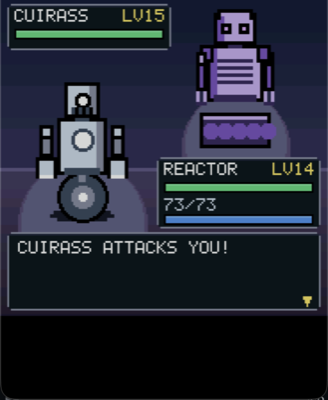
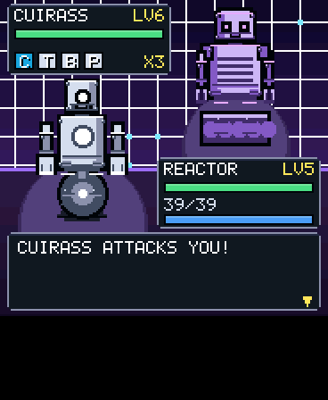
chatarra: the test handout comes out, and v2 is written up
The eight loose parts handed to the save on load were for trying the
workshop and the team without winning eight fights first. They do not
belong in a release: whoever installs it would start with a full bag.
The parts already handed out stay where they are - they are in the save
- and the two flags stay in the enum, because removing them would shift
every flag below and a game in progress would read "chest opened" where
it says "boss beaten".

And the documentation: six fresh screenshots, a v2 section in the app's
README, the file list with ch_zonas.c, ch_feria.c and ch_sound.c, the
status at 61 rooms, the root README's entry, and a CHANGELOG entry for
v0.4.5 - plus one for v0.4.1 to v0.4.4, which were released with notes
on GitHub and never written up here.

Changed region(s): [[0.0, 0.0, 1.0, 1.0], [0.0915, 0.63, 0.122, 0.66]]

diff --git a/apps/chatarra/main/ch_zonas.c b/apps/chatarra/main/ch_zonas.c
@@ -123,6 +123,9 @@ enum {
     F_VISITA_5, F_VISITA_6, F_VISITA_7, F_VISITA_8,
 
     /* TEMPORAL: la entrega de piezas de prueba, una sola vez. */
+    /* Las dos de la reparticion de prueba de la v2. La funcion se fue; las
+     * banderas se quedan, porque sacarlas correria todas las de abajo y un
+     * guardado en curso leeria "cofre abierto" donde dice "jefe vencido". */
     F_PRUEBA_PIEZAS, F_PRUEBA_PIEZAS2,
 
     /* La feria paga su pieza una sola vez. */
@@ -2927,35 +2930,6 @@ const ch_aire_t ch_aire[ZONAS] = {
     { 0xC06B2E, 2 },    /* 7 Villa Oxido  - dust in the air                  */
     { 0xB072F0, 2 },    /* 8 Prisma       - the summit                       */
 };
-
-/* TEMPORAL -- piezas de prueba.
- *
- * DOS de cada categoria, una sola vez, para poder probar el taller, armar el
- * segundo robot -que pide cuatro piezas de categorias distintas- y todavia
- * tener con que cambiar. Detras de una bandera porque si no es una maquina de
- * imprimir piezas, y aca porque el enum de banderas es privado de este
- * archivo. La segunda bandera es la reparticion ampliada: el guardado de
- * prueba ya tenia prendida la primera.
- *
- * Es para la partida de pruebas del usuario y esta para sacarse. */
-void ch_regalo_piezas(ch_save_t *s)
-{
-    static const uint8_t REGALO[8] = {
-        PIEZA_ID(P_CABEZA, 5),  PIEZA_ID(P_CABEZA, 11),
-        PIEZA_ID(P_TORSO, 3),   PIEZA_ID(P_TORSO, 9),
-        PIEZA_ID(P_BRAZOS, 7),  PIEZA_ID(P_BRAZOS, 13),
-        PIEZA_ID(P_PIERNAS, 3), PIEZA_ID(P_PIERNAS, 10),
-    };
-    int puestas = 0;
-
-    if (ch_flag(s, F_PRUEBA_PIEZAS2)) return;
-    ch_flag_set(s, F_PRUEBA_PIEZAS);
-    ch_flag_set(s, F_PRUEBA_PIEZAS2);
-    for (int i = 0; i < MOCHILA && puestas < 8; i++) {
-        if (s->piezas[i] != 0xFF) continue;
-        s->piezas[i] = REGALO[puestas++];
-    }
-}
 
 /* LA PIEZA DE LA FERIA, una sola vez.
  *

diff --git a/apps/chatarra/main/chatarra.c b/apps/chatarra/main/chatarra.c
@@ -403,10 +403,6 @@ static bool cargar(ch_t *g)
     if (sv.ver == SAVE_VER && sv.largo == (uint16_t)sizeof(ch_save_t)) {
         g->s = sv.s;
 
-        /* TEMPORAL: tres piezas sueltas para probar el taller sin ganar
-         * tres combates antes. Vive en ch_zonas.c porque las banderas son
-         * privadas de ese archivo. Sale cuando el usuario diga. */
-        ch_regalo_piezas(&g->s);
     } else {
         /* NOTHING OLDER IS CONVERTED, AND THAT IS THE POINT.
          *
@@ -983,12 +979,7 @@ static void *chatarra_create(aos_app_t *self, lv_obj_t *root)
      *   CH_CABINA=<n> the booth, at that state (see the LK_ enum): the menu
      *                 needs a second watch, and its layout does not.
      *   CH_FERIA=1    la cinta de chatarra, directo
-     *
-     * AND ONE THING THAT IS NOT A SWITCH: CH_REGALO_PIEZAS below hands three
-     * loose parts to the save the first time it is loaded, so the workshop
-     * can be tried without winning three fights first. It is temporary and
-     * it is meant to come out; it is here and not behind getenv() because the
-     * board has no environment.
+
      */
     {
         const char *v;

diff --git a/apps/chatarra/main/chatarra.h b/apps/chatarra/main/chatarra.h
@@ -580,8 +580,6 @@ bool ch_eq_puede_armar(const ch_save_t *s);
  * or if it is the last robot standing. */
 bool ch_eq_desarmar(ch_save_t *s, int slot);
 
-/* TEMPORAL: entrega piezas de prueba una sola vez. Ver ch_zonas.c. */
-void ch_regalo_piezas(ch_save_t *s);
 /* La pieza que paga la feria, una sola vez. true si la dio ahora. */
 bool ch_feria_premio(ch_save_t *s, uint32_t *sem);
 

diff --git a/apps/chatarra/README.md b/apps/chatarra/README.md
@@ -8,6 +8,23 @@ one of them is written down anywhere.
 The game loop is: walk around, fight, **rip a part off whoever you beat**, fit it
 in the workshop and head out again with a different robot.
 
+<p align="center">
+  <img src="../../docs/img/app-chatarra-map.png" width="190" alt="Cogville: cobbled streets, flowerbeds, a bench, a bin, a cat by the lamp post">
+  <img src="../../docs/img/app-chatarra-battle.png" width="190" alt="Combat: the rival's four parts by elemental type, its set, and the stat stages">
+  <img src="../../docs/img/app-chatarra-workshop.png" width="190" alt="The workshop: the robot at scale 3 and the four categories down the right">
+</p>
+<p align="center">
+  <img src="../../docs/img/app-chatarra-team.png" width="190" alt="The team of three, with stats or moves behind a pair of buttons">
+  <img src="../../docs/img/app-chatarra-records.png" width="190" alt="The register: the parts seen, eight to a page">
+  <img src="../../docs/img/app-chatarra-fair.png" width="190" alt="The scrap belt at Bujia docks">
+</p>
+
+**v2 (2026-09-20)** redrew the world at **12 px a cell** instead of 8 — fewer,
+bigger cells, which costs the same and touches far better on a 1.8" screen — and
+with it came 61 rooms, towns split into sectors, a team of three, a phone booth
+per town, a fair, and the whole menu rebuilt out of tiles. Section 18 is the
+short version; `docs/internal/HANDOFF-CHATARRA-V2.md` is the long one.
+
 ---
 
 ## 1. What to know before touching anything
@@ -139,11 +156,14 @@ Both are written on the title screen, because neither can be guessed.
 | `chatarra.h` | the whole model: parts, robot, world, savegame, modes |
 | `ch_pixel.c/.h` | pixel-art engine with dirty rectangles (copied from `cjump`, with the palette extended to earth, grass, water, stone and wood) |
 | `ch_parts.c` | the 64 parts, the 44 attacks, the items, the colour schemes and the four functions that draw a robot |
-| `ch_world.c` | the tiles, the props, the nine rooms, the entities and the dialogue |
+| `ch_world.c` | the tiles, the props, the furniture, the animals and the entity sprites |
+| `ch_zonas.c` | the 61 rooms, their entities and every line of dialogue |
 | `ch_map.c` | the room engine: background, pathfinding by breadth-first search, movement, encounters |
 | `ch_battle.c` | the turn-based combat |
 | `ch_ui.c` | HUD, dialogue, menu, workshop, items, team screen, register, shop, title |
 | `ch_link.c` | the phone booth: the protocol and the screen for the other watch |
+| `ch_feria.c` | the scrap belt: the minigame at Bujia docks |
+| `ch_sound.c` | the four-voice synthesiser and the sixteen tunes |
 | `chatarra.c` | the only thing LVGL and the HAL see: canvas, blit, touch, button, saving |
 
 The game (everything but `chatarra.c`) **does not know that LVGL, the HAL or the
@@ -399,7 +419,7 @@ tables.
 **Done:** the whole game. The engine, the 64 parts, the 44 attacks with six types
 and an effectiveness table, turn-based combat with status effects, the workshop,
 the shop, the items, the stat sheet, saving, flag-driven quests, and **the eight
-zones across 51 rooms**, from Villa Tuerca to the Summit:
+zones across 61 rooms**, from Villa Tuerca to the Summit:
 
 | # | Zone | Road / Dungeon | Sub-boss | Type |
 | --- | --- | --- | --- | --- |
@@ -433,9 +453,13 @@ hand and there is nothing to lay it out. Two real cases:
 - The 105 lines of dialogue in each language are cut by hand to ≤27. A longer
   line breaks nothing, but it wraps by itself and looks bad.
 
+**Measured on the board** at every step since 2026-09-20: 29.5 fps on the map
+and 27-29 in combat, which is the ceiling the panel gives and not the game's.
+
 **Pending:**
-- **Measuring it on the board.** Everything here is tested in the simulator,
-  where LVGL costs twenty or thirty times less.
+- The seven zones after the first came out of templates, so they share a layout
+  per role. The character is in the tiles, the props and the text; giving each
+  zone a floor plan of its own is hand work, one room at a time.
 
 ---
 
@@ -1094,3 +1118,98 @@ Two or three is a wash; seven, five, three is a shadow. It is written at
 
 Measured on the board afterwards: **29.2 fps**, unchanged. All three are
 background work, and the background is free.
+
+---
+
+## 18. v2: twelve pixels a cell, and everything that followed (2026-09-20)
+
+The map was 21 x 22 cells of 8 px. v2 draws **15 x 14 cells of 12 px**, and the
+whole rework hangs off one measurement: **in a dirty-rectangle engine what
+costs is AREA pushed, not drawing**, so fewer and bigger cells cost the same as
+more and smaller ones. 29.2 fps before, 29.2 fps after. What it buys is that a
+door is 24 real pixels instead of 16, and a finger can hit it.
+
+### The world
+
+- **61 rooms** instead of 51. Every town is two or four sectors — Cogville is
+  four — because a road crossing, a workshop, three neighbours, the booth and
+  the checkpoint out do not fit in 210 cells without going back to the cramming
+  v2 exists to stop.
+- The seven zones after the first were rebuilt **from seven templates**, one per
+  role (approach, town, east sector, interior, two dungeon floors, boss), which
+  take the zone's TILE LETTERS and nothing else and read every text, flag, item
+  and level out of the tables that were already there. Every template mistake
+  then shows up 6 or 42 times at once, which turns the world check from a sieve
+  into a test bench: the first pass gave 47 problems and they were five causes.
+- **Edge tiles**, directional room transitions, **per-zone air** (a colour wash
+  over the finished background), flowing water and lava, prop shadows.
+- Towns got **seven new ground tiles** — a denser grass, a flowerbed, warm
+  sandstone paving, slabs, parquet — plus benches, bins, planters, and **a black
+  cat and a bird that walk**. The animals join the creatures' loop instead of
+  getting one of their own, so they are already a dirty rectangle in a list that
+  was being drawn anyway.
+- **Furniture is an entity, not a decoration**: eleven pieces, each with its own
+  text, and any of them can hide one thing once. A house with a table you cannot
+  look at is a house with a picture of a table in it.
+
+### The robots
+
+They are drawn by code on a 26 x 40 unit grid and scaled whole, so scaling them
+added no detail — the smallest unit was three pixels and a rivet did not fit.
+Two functions (`RH`, `REM`) take their coordinates in **half units**: at scale 1
+they round to zero and are not drawn, from scale 2 up they are real detail. The
+same code draws the small robot on the map and an effective 52 x 80 one in the
+sheet, the workshop and combat. On top of that, a detail pass per category —
+lit and shaded plate edges, rivets, a jaw seam, a waist, vent grilles, elbow and
+knuckles, knee, ankle and sole — all derived from measurements the part already
+computed, so it covers all 16 variants of each.
+
+### Playing it
+
+- **A team of three**: the starting robot plus two built from spare parts, and a
+  reserve to fall back on when one breaks.
+- **Parts of the same type work together**: two of the torso's element +10%
+  attack, three +20% and +10% defence, four +30/+20/+10. That is the difference
+  between a menu and a decision. It is computed and not stored, because
+  `ch_save_t` is accepted by SIZE and a new field throws away every game in
+  progress.
+- **Fast travel** from the map screen to any zone you have set foot in, always
+  to its town.
+- **A diary** of the eight errands, which walks the world rather than keeping a
+  table of its own, so it cannot fall out of step with them.
+- **The phone booth** in every town: fight or swap robots and parts with another
+  watch over the link.
+- **The scrap belt** at Bujia docks: a three-lane conveyor, grab the green parts
+  and let the rusty ones through, forty seconds for credits and — once — a part.
+- **Eight zone themes** on the four-voice synth. What separates them is the
+  pulse and the register, not the tune.
+
+### The interface
+
+Every list became tiles or tall rows: the menu is two pages of icons, the items
+and the shop are 42 px rows with a 24 x 24 icon and the description wrapped
+underneath, the register is eight parts a page at twice the old cell, the map is
+eight cards, the booth's menu is four tiles.
+
+Behind all of it, one rule learned three times on the board: **everything is
+measured from the top and the only thing with a variable height is whatever is
+left over.** The HUD owns everything from y=168, and the register's card, the
+team's buttons and the help's hint were each anchored to the bottom while what
+came above them grew freely. After the third one I swept for every constant
+between 155 and 223 used as a Y in a drawing call.
+
+### What the board caught and the simulator did not
+
+- `-Werror=format-truncation`: a `snprintf` into a `char[30]` compiles clean in
+  the simulator and is an **error** for the board.
+- Two right-aligned strings on one line fit in Spanish and were a mess in
+  English. Render with `lang=en` before installing.
+- Uploading a `.so` does **not** reload an app that is already open: the ELF
+  stays in memory. Restart, then open.
+
+### Measured
+
+- `CH_CHECK=1`: **0 problems** across the 61 rooms.
+- Board: **29.5 fps** on the map, with music, the idle, the animals and the
+  furniture — the same as the empty v1 map.
+- Catalogues: 554 strings in Spanish, English and German.

diff --git a/README.md b/README.md
@@ -142,7 +142,7 @@ app meant a reflash for that alone. See [docs/ICONS.md](docs/ICONS.md).
 
 | | | |
 |---|---|---|
-| <img src="docs/img/app-chatarra-map.png" width="200"><br>**Chatarra** — a turn-based robot RPG. Eight zones, 51 rooms, 64 parts drawn from descriptors rather than sprites. | <img src="docs/img/app-chatarra-battle.png" width="200"><br>Its combat: six elemental types, an effectiveness table, and the robot you fight with is one you built from parts torn off others. | <img src="docs/img/app-cjump.png" width="200"><br>**Claude Jump** — a vertical platformer with five zones, coins and sixteen costumes. |
+| <img src="docs/img/app-chatarra-map.png" width="200"><br>**Chatarra** — a turn-based robot RPG. Eight zones, 61 rooms, 64 parts drawn from descriptors rather than sprites. A team of three, a phone booth to fight another watch, and a fair at the docks. | <img src="docs/img/app-chatarra-battle.png" width="200"><br>Its combat: six elemental types, an effectiveness table, the rival's parts as far as your register knows them, and a robot you built from parts torn off others. | <img src="docs/img/app-cjump.png" width="200"><br>**Claude Jump** — a vertical platformer with five zones, coins and sixteen costumes. |
 | <img src="docs/img/app-topos.png" width="200"><br>**Topos** — whack-a-mole in three modes. A mole in a hard hat takes two taps, a golden one is worth a lot, and a bomb must not be touched. | <img src="docs/img/app-topos-frenzy.png" width="200"><br>Frenzy: several at once and combos up to ×5. The lawn never moves, so only what comes out of the holes is redrawn — about a tenth of the screen per frame. | <img src="docs/img/app-topos-survival.png" width="200"><br>Survival: three hearts and a level every eight moles. Every state has its own sprite — peeking, glancing about, taunting, dizzy, the hat flying off. |
 | <img src="docs/img/app-video-list.png" width="200"><br>**Video** — plays MJPEG AVIs from the card at the screen's size, with sound, at 15 fps. `tools/video_convert.sh` makes the pair of files from anything ffmpeg reads. | <img src="docs/img/app-video.png" width="200"><br>The sound is the clock: the frames follow the player's position and a late one is skipped, never the other way round. Reading and decoding run in a background task on the second core, the first app to have one, and the frame goes straight to the panel past LVGL's render. The numbers are in [docs/VIDEO.md](docs/VIDEO.md). | <img src="docs/img/app-pong.png" width="200"><br>**Pong** — across two watches: the ball leaves the top of one screen and comes down the other's. The host simulates at 30 Hz over the link's fast channel; 30 states a second each way, measured, with an iPhone connected. |
 | <img src="docs/img/app-radar.png" width="200"><br>**Radar** — where the other watch is. Pings ten times a second carry the signal strength each side sees, and a path-loss model calibrated at one metre puts the partner on the rings; underneath, FTM time of flight (IEEE 802.11mc): one watch answers from its softAP, the other measures 16 frames every 1.5 s and both show the distance in centimetres. | <img src="docs/img/app-walkie.png" width="200"><br>**Walkie** — push to talk between two watches. Hold the button and 29 ms frames of IMA ADPCM go out on the fast channel, 34 a second; let go and the speaker takes the codec back and plays what arrives through the HAL's streaming speaker. Half duplex because the ES8311 is one codec for both directions. | |

diff --git a/CHANGELOG.md b/CHANGELOG.md
@@ -3,6 +3,53 @@
 Newest first. Versions are git tags; what is above the latest tag is on
 `main` and not yet in a release.
 
+## v0.4.5 — 2026-09-20
+
+**Chatarra v2.** The robot RPG redrawn: the map goes from 21x22 cells of 8 px
+to **15x14 of 12 px**, and everything else follows from that one measurement —
+in a dirty-rectangle engine what costs is AREA pushed, not drawing, so fewer
+and bigger cells cost the same and a door is 24 real pixels instead of 16.
+29.2 fps before, 29.5 after.
+
+- **61 rooms** instead of 51: every town is two or four sectors, and the seven
+  zones after the first were rebuilt from seven templates, one per role, which
+  read every text, flag, item and level out of the tables that were already
+  there. The world check reports **0 problems** across all 61.
+- **A team of three** robots, with a reserve to fall back on when one breaks,
+  and a **workshop** that builds any of them: the robot at scale 3 on the left
+  and the four part categories down the right, each opening its own list with
+  the part drawn, its type and the difference against the one fitted.
+- **Parts of the same elemental type work together**: two +10% attack, three
+  +20% and +10% defence, four +30/+20/+10.
+- **A phone booth in every town** — fight or swap robots and parts with another
+  watch over the link — and **the scrap belt** at Bujia docks: a three-lane
+  conveyor for credits and, once, a part.
+- **Fast travel** to any zone you have set foot in, **a diary** of the eight
+  errands that walks the world rather than keeping a table of its own, and
+  **shop stock that grows with the zone**.
+- **Robots at twice the resolution**: two half-unit primitives let the same
+  code draw the small robot on the map and an effective 52x80 one everywhere
+  else, with rivets, plate seams, a waist, vent grilles, elbows and soles.
+- **Towns that are inhabited**: seven new ground tiles, eleven pieces of
+  furniture that are entities and can be looked at, a cat and a bird that walk,
+  and the player looking around after five seconds standing still.
+- **Eight zone themes** on the four-voice synth, and the interface rebuilt out
+  of tiles and tall rows: the menu, the items, the shop, the register, the map
+  and the booth.
+- Its icon travels inside the `.so` (the AIC facility of v0.3.8).
+- Catalogues at **554 strings** in Spanish, English and German.
+
+Firmware: only the embedded language pack changed. Everything else is
+`chatarra.so`.
+
+## v0.4.1 to v0.4.4 — 2026-09-19 and 2026-09-20
+
+Released from `main` with notes on GitHub and not written up here at the time:
+**v0.4.1** two-player Truco over the link, **v0.4.2** Pixel Art sending
+drawings and the Radar (RSSI and real FTM), **v0.4.3** the Walkie with a
+streaming speaker, **v0.4.4** the panel's SPI and LVGL pinned off WiFi's core
+(esp-idf#18527).
+
 ## v0.4.0 — 2026-09-19
 
 Two watches talk. The whole of [docs/LINK.md](docs/LINK.md) is the record:
